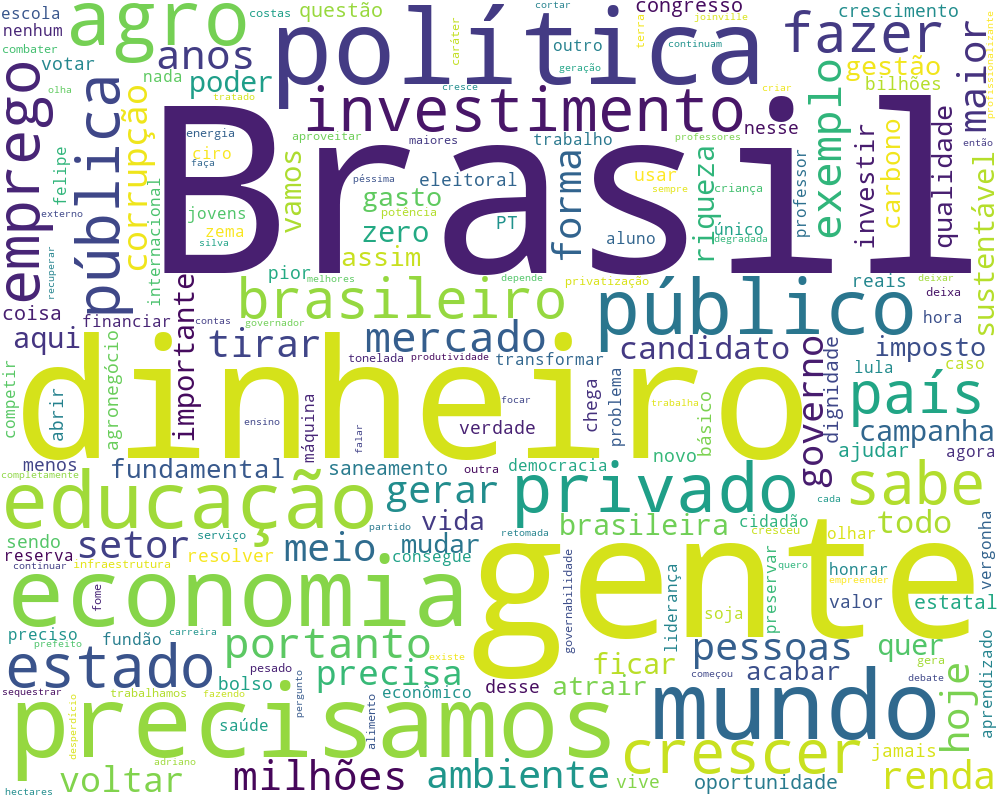
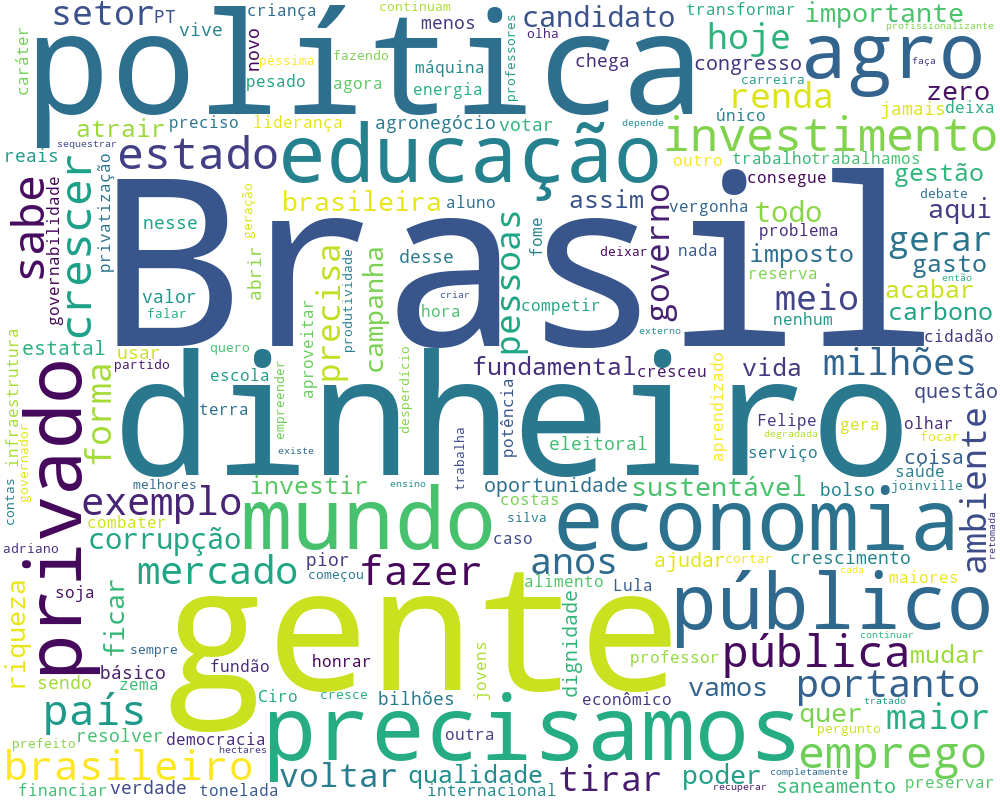
edição do código para ignorar cabeçalho e alterações nas imagens

diff --git a/gerador de imagens.py b/gerador de imagens.py
@@ -12,7 +12,7 @@ palavras = ['' for i in range(len(nomes))]
 for nome in nomes:
     with open('frequencia/{}.csv'.format(nome), 'r', encoding='utf-8') as arq:
         leitor = csv.reader(arq)
-        frequencia.append(list(leitor))
+        frequencia.append(list(leitor)[1:]) # elimando header
 
 i = 0
 for candidato in frequencia:
